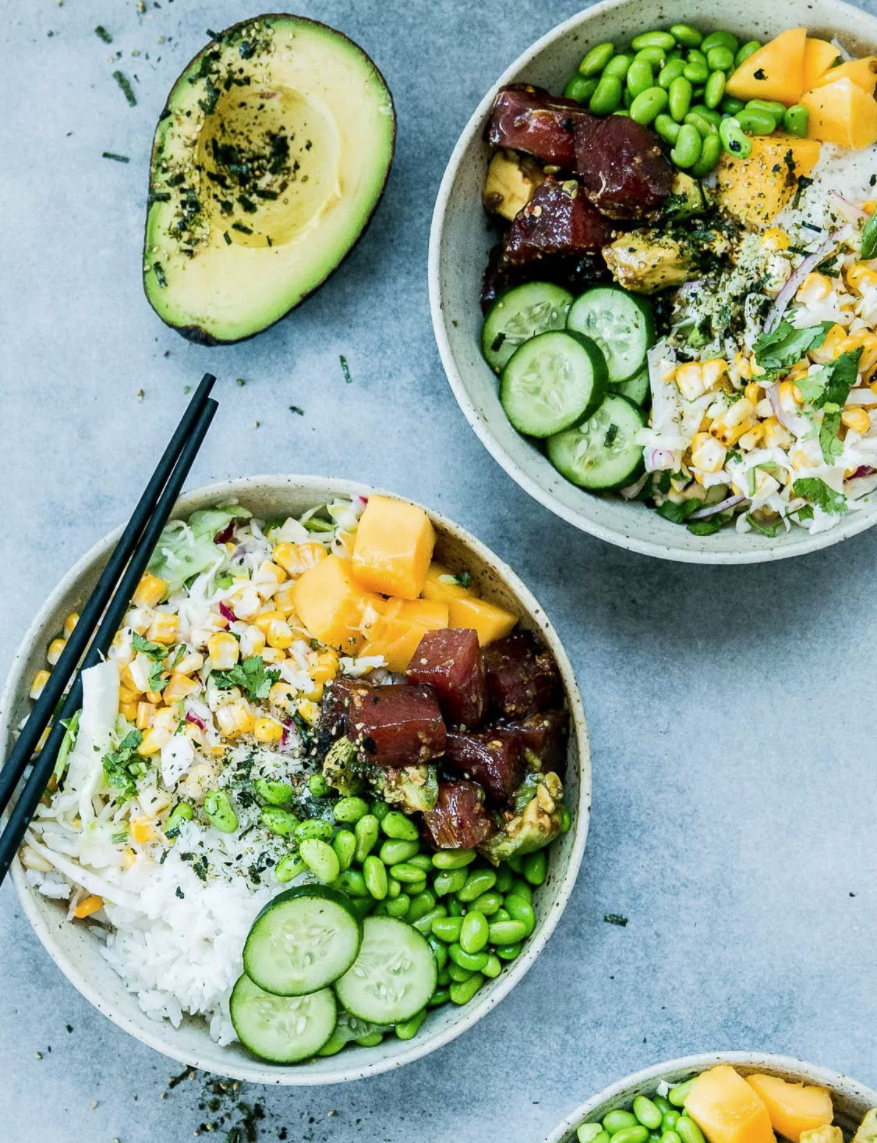
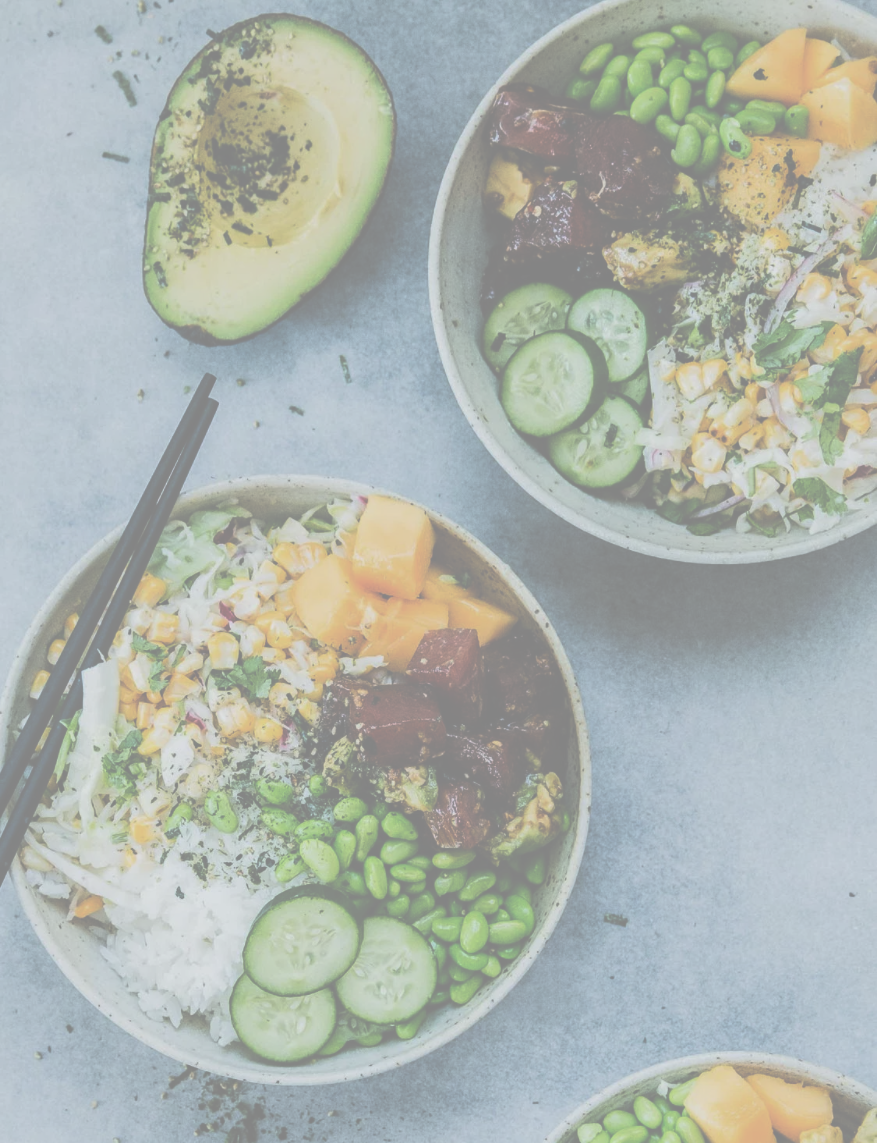
home

diff --git a/public/css/home.css b/public/css/home.css
@@ -109,7 +109,7 @@ height: 80rem;
 display: flex;
 flex-direction: column;
 align-items: center;
-background-image:url('/images/home/blurredHomePage.jpg');
+background-image:url('/images/home/p.png');
 background-position: center;
 background-repeat: no-repeat;
 background-size: cover;
